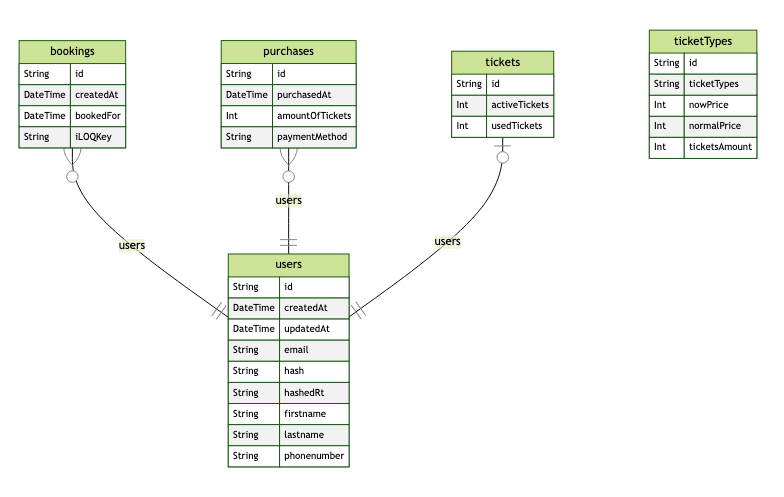
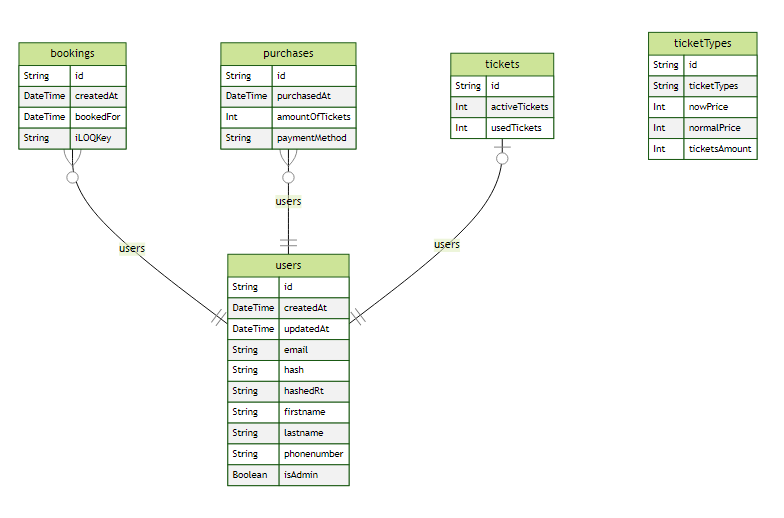
created seed for admin & tickettypes, added in db:dev:restart command. Add isAdmin boolean to prisma schema

diff --git a/prisma/seed.ts b/prisma/seed.ts
@@ -1,0 +1,87 @@
+import { Prisma, PrismaClient } from '@prisma/client'
+import * as argon from 'argon2'
+import { hashConfig } from '../src/auth/helpers/hashconfig'
+
+const prisma = new PrismaClient()
+
+const ticketTypeData: Prisma.TicketTypeCreateInput[] = [
+  {
+    ticketType: '3 days',
+    ticketsAmount: 3,
+    normalPrice: 570,
+    nowPrice: 456
+  },
+  {
+    ticketType: '7 days',
+    ticketsAmount: 7,
+    normalPrice: 1330,
+    nowPrice: 931
+  },
+  {
+    ticketType: '30 days',
+    ticketsAmount: 30,
+    normalPrice: 5700,
+    nowPrice: 3705
+  }
+]
+
+async function seedAdmin() {
+  const hash = await argon.hash('1234Admin', { ...hashConfig })
+  console.log(`Seeding admin...`)
+  const user = await prisma.user.create({
+    data: {
+      firstname: 'astrid',
+      lastname: 'blomstrøm',
+      email: 'admin@admin.com',
+      phonenumber: '34343434',
+      isAdmin: true,
+      hash: hash
+    }
+  })
+  console.log(`Created admin with email: ${user.email}`)
+}
+
+async function seedTicketTypes() {
+  console.log(`Seeding ticket types...`)
+  for (const type of ticketTypeData) {
+    const ticketType = await prisma.ticketType.create({
+      data: type
+    })
+    console.log(`Created ticket type with for: ${ticketType.ticketType}`)
+  }
+  console.log(`Seeding finished.`)
+}
+
+seedAdmin()
+  .then(seedTicketTypes)
+  .catch((e) => {
+    console.error(e)
+    process.exit(1)
+  })
+  .finally(async () => {
+    await prisma.$disconnect()
+  })
+
+/* async function createAdmin() {
+  const hash = await argon.hash('1234Admin', { ...hashConfig })
+  const user = await this.prisma.user.create({
+    data: {
+      firstname: 'astrid',
+      lastname: 'blomstrøm',
+      email: 'admin@admin.com',
+      phonenumber: '34343434',
+      hash: hash,
+      isAdmin: true
+    }
+  })
+
+  const ticket = await this.prismaService.ticket.create({
+    data: {
+      activeTickets: 0,
+      usedTickets: 0,
+      userId: user.id
+    }
+  })
+}
+
+createAdmin() */

diff --git a/src/auth/auth.service.ts b/src/auth/auth.service.ts
@@ -35,6 +35,7 @@ export class AuthService {
           firstname: dto.firstname,
           lastname: dto.lastname,
           phonenumber: dto.phonenumber,
+          isAdmin: false,
           hash
         }
       })
